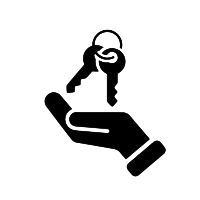
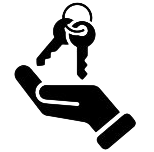
cambiato un po loghi e bozza servizi

Changed region(s): [[0.0779, 0.0, 0.8831, 1.0], [0.6494, 0.5789, 0.6753, 0.6053]]

diff --git a/html/index.html b/html/index.html
@@ -44,29 +44,37 @@
         <div id="services">
             <h2>I NOSTRI <em>SERVIZI</em></h2>
             <dl>
+                <div class="item-services">
                 <dt><strong>Acquisto</strong></dt>
                 <dd>
                     <img class="icons" src="/img/Acquisto.png" alt="">
                     <p>Ti guidiamo nella scelta della casa giusta, occupandoci di ogni dettaglio burocratico e garantendoti un acquisto sicuro e trasparente.</p>
                 </dd>
+                </div>
 
+                <div class="item-services">
                 <dt><strong>Vendita</strong></dt>
                 <dd>
                     <img class="icons" src="/img/Vendita.png" alt="">
                     <p>Ti accompagniamo in ogni fase della vendita, dalla valutazione dell'immobile alla firma del rogito, valorizzando al massimo la tua proprietà.</p>
                 </dd>
+                </div>
 
+                <div class="item-services">
                 <dt><strong>Consulenza e Valutazione</strong></dt>
                 <dd>
                     <img class="icons" src="/img/Consulenza.png" alt="">
                     <p>Offriamo valutazioni precise e consulenze personalizzate per aiutarti a prendere decisioni consapevoli sul tuo immobile.</p>
                 </dd>
+                </div>
 
+                <div class="item-services">
                 <dt><strong>Servizi tecnici</strong></dt>
                 <dd>
                     <img class="icons" src="/img/Certificazione.png" alt="">
                     <p>Ci occupiamo di verifiche catastali, conformità urbanistiche e certificazioni, collaborando con tecnici qualificati.</p>
                 </dd>
+                </div>
             </dl>
         </div>
         <div class="goback">

diff --git a/styles/style.css b/styles/style.css
@@ -49,8 +49,6 @@ html a:hover {
 
 
 
-
-
 body{
     background-color: var(--white);
     color: var(--txtcolor);
@@ -172,8 +170,6 @@ SEZIONE MAIN
 main {
     background-color: var(--white);
     padding: 2em;
-    border: #0F253A solid px;
-    border-radius: 10px;
     margin-top: 1em;
     /*flex: 1 0 auto;  /* Permette a main di espandersi e occupare lo spazio disponibile, evita di comprimersi eccessivamente*/
     box-sizing: border-box;
@@ -238,6 +234,60 @@ main h1{
 }
 
 
+/* SERVICES */
+
+#services h2 {
+    /*top: -1em;*/
+    text-align: center;
+    font-size: 1.8em;
+    margin-top: 1em;
+    margin-bottom: .3em;
+    text-transform: uppercase;
+}
+
+#services dl {
+    display: flex;
+    flex-wrap: wrap;
+    justify-content: center
+}
+
+#services .item-services {
+    flex: 0 1 40em;
+    display: grid;
+    grid-template-columns: 0.5fr 3fr;
+    grid-template-areas: "i t t t" 
+                         "i d d d";
+    box-shadow: var(--text-gray) 0 2px 8px;
+    border-radius: 80px;
+    margin: 0.5em;
+    padding: 2em;
+}
+
+#services dt {
+    grid-area: t;
+    padding: .2em;
+    font-size: 1.4em
+}
+
+#services dd {
+    display: contents; 
+}
+
+#services dd img {
+    grid-area: i;
+    width: 100%;
+    float: left;
+    height: auto;
+    margin: auto
+}
+
+#services dd p {
+    grid-area: d;
+    clear: right;
+    flex-grow: 0;
+    flex-shrink: 1;
+    padding: .3em
+}
 
 /*
 ==============================================================
@@ -321,7 +371,6 @@ footer {
     color: #fff; 
     text-align: center; 
     padding: 30px; 
-    border-radius: 10px 10px 0px 0px;
 }
 
 
